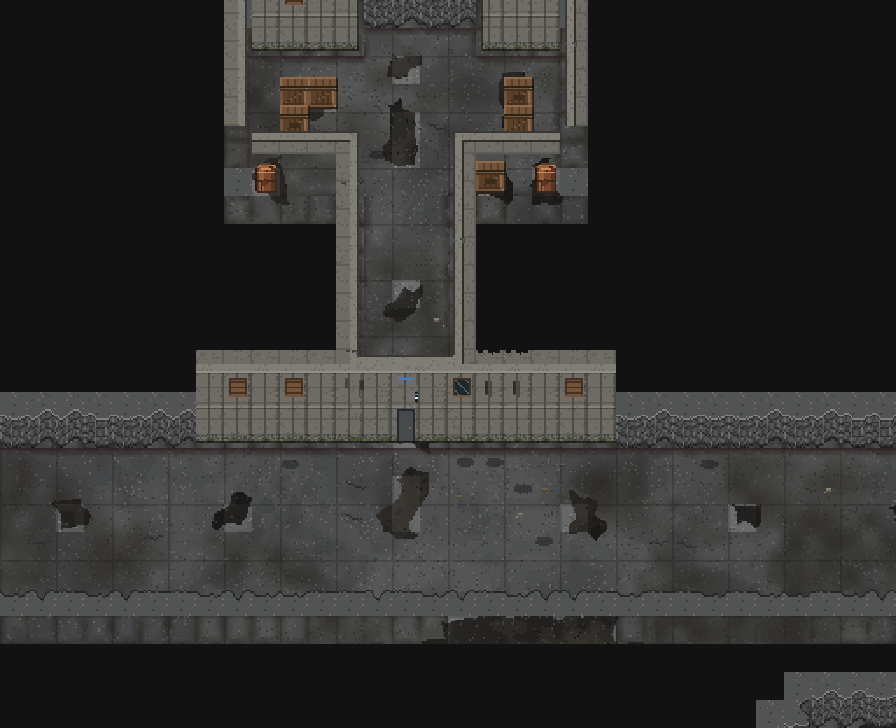
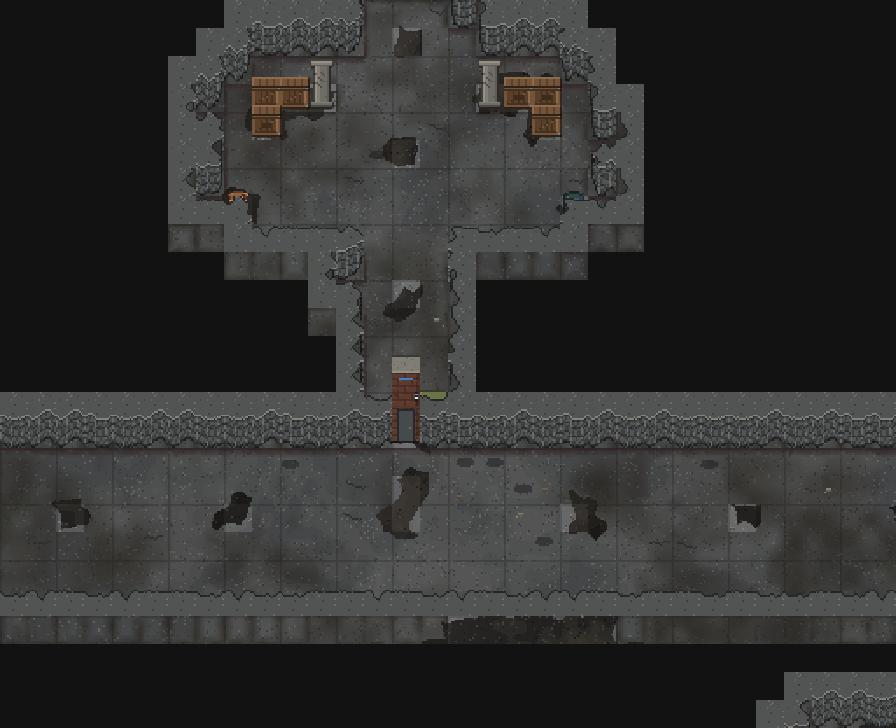
Annex: carved into rock (cliff walls, ragged rooms), rock-cut service tunnel + loading chamber, no wall windows underground, facing rule in Furnish
Claude-Session: https://claude.ai/code/session_01Jpd5tdDJTR7BVueAYV1KDM

Changed region(s): [[0.1875, 0.0, 0.7188, 0.6346]]

diff --git a/Assets/Scripts/GameCore/TierDungeons.AnnexPlan.cs b/Assets/Scripts/GameCore/TierDungeons.AnnexPlan.cs
@@ -23,48 +23,49 @@ namespace GameCore
             "################################################################",
             "################################################################",
             "################################################################",
-            "############################,,,,,,#########,,,,,,,,,,,,,,,######",
+            "############################,,,#,,#########,,,,,,,,,,,,,,,######",
             "########################,x,#,,,,,,#,t,#####,,,,,,,,,,,,,,,######",
-            "########################,,,D,,,,,,D,,,#####,,,,,,,,,,,,,,,######",
+            "########################,,,!,,,,,,!,,,#####,,,,,,,,,,,,,,,######",
             "########################,,,#,,i,,,#,,,#####,,,,,,,i,,,,,,,######",
             "############################,,,,,,#########,,,,,,,,,,,,,,,######",
             "########################,,,#,,,,,,#########,,,,,,,,,,,,,,,######",
-            "########################,,,D,,C,,,!,,,,,,,!,,,,i,,T,,i,,,,######",
-            "########################,,,#,,,,,,#########,,,,,,,,,,,,,,,######",
+            "########################,,,!,,C,,,!,,,,,,,!,,,,i,,T,,i,,,,######",
+            "########################,,,#,,,,,,#########,,,+,,,,,,,+,,,######",
             "############################,,,,,,#########,,,,,,,,,,q,,,,######",
             "########################t,,#,,i,,,#,,,#####,,,,,,,,,,,,,,,######",
-            "########################,,,D,,,,,,D,,,#####,,,,q,,,,,,,,,,######",
+            "########################,,,!,,,,,,!,,,#####,,,,q,,,,,,,,,,######",
             "########################,,,#,,,,,,#,,x#####,,,,,,,,,,,,,,,######",
-            "############################,,,,,,#########,,,,,,,,,,,,,,,######",
-            "##############################D#################################",
+            "############################,,,,,,#########,,,,,,,,#,#,#,,######",
+            "##############################!#################################",
             "#######################,,,,,,,,,,,,,,,,#########################",
             "#######################,,,,,,,,I,,,,,,,#########################",
             "####,,,,,,,,,,,########,,,i,,,,,,,,i,,,###,,,,,,,,,,,,#,,,,,,,##",
-            "####cc,,,,,,,,b########,,,,,,,,,,,,,,,,###,,,,,,,,,,,,#,,,,,,,##",
+            "####cc,,,,,,,,b########,,,,,,,,,,,,,,,####,,,,,,,,,,,,#,,,,,,,##",
             "####c,,,,,,,,,,########,,,,,,,,,,,,,,,,###,,,,,i,,,,,,#,,,,,,,##",
-            "####,,,,,i,,,,,#,,,D,,,,,,,,,,,,,,,,,,,###,,,,,,,,,,,,#,,,,,,,##",
-            "####,,E,,,,,,,,!,i,D,i,,,,,,,,,,,,,,,,,!,D,,,,,,O,,,,,{,,,V,,,##",
-            "####,,,,,,,,,,,#,,,D,,,,,,,,,,,,,,,,,,,###,,,,,,,,,,,,#,,,,,,,##",
+            "####,,,,,i,,,,,#,,,#,,,,,,,,,,,,,,,,,,,###,,,,,,,,,,,,#,,,,,,,##",
+            "####,,E,,,,,,,,!,i,!,i,,,,,,,,,,,,,,,,,!,!,,,,,,O,,,,,{,,,V,,,##",
+            "####,,,,,,,,,,,#,,,#,,,,,,,,,,,,,,,,,,,###,,,,,,,,,,,,#,,,,,,,##",
             "####,,,,,i,,,,,########,,,,,,,,,,x,,,,,###,,,,,i,,,,,,#,,,i,,,##",
             "####c,,,,,,,,,b########,,,,,,,,,,,,,,,,###,,,,,,,,,,,,#,,,,,,,##",
             "####cc,,,,,,,cc########,,,i,,x,,,,,i,,,###,,,,,,,,,cc,#,,,,,,,##",
             "#######################,,,,,,,,,,,,,,,,#########################",
-            "#######################,,,,,,,,,,,,,,,,#########################",
+            "#######################,,,,,,,,,#,,,,,,#########################",
             "################################################################",
         };
 
         /// <summary>Furniture and lab stock along the walls (the plan alphabet has no letters left): x, y, hard cover?, look.</summary>
         static readonly (int, int, bool, string)[] AnnexStock =
         {
-            (14, 32, false, "terminal"),
+            (12, 30, false, "terminal"),
             (9, 30, true, "cabinet"),
             (25, 28, false, "terminal"),
             (26, 28, false, "desk"),
             (33, 28, false, "desk"),
             (34, 28, false, "terminal"),
-            (38, 31, false, "armchair"),
-            (38, 32, false, "armchair"),
-            (38, 33, false, "armchair"),
+            (28, 28, false, "armchair"),
+            (29, 28, false, "armchair"),
+            (36, 28, false, "armchair"),
+            (37, 28, false, "armchair"),
             (23, 29, true, "lockers"),
             (23, 30, true, "lockers"),
             (23, 31, true, "lockers"),
@@ -77,24 +78,25 @@ namespace GameCore
             (38, 39, true, "cabinet"),
             (24, 19, true, "lockers"),
             (37, 23, true, "lockers"),
-            (45, 14, true, "console"),
+            (44, 14, true, "fridge_lab"),
+            (45, 14, true, "fridge_lab"),
             (47, 14, true, "console"),
+            (48, 14, true, "console"),
             (49, 14, true, "console"),
-            (51, 14, true, "console"),
-            (53, 14, true, "console"),
-            (55, 14, true, "console"),
-            (43, 17, false, "terminal"),
-            (43, 21, false, "terminal"),
-            (43, 15, false, "microscope"),
+            (51, 14, true, "machine"),
+            (52, 14, true, "machine"),
+            (53, 14, true, "machine"),
+            (55, 14, false, "terminal"),
+            (56, 14, false, "terminal"),
+            (43, 16, false, "microscope"),
             (43, 19, false, "microscope"),
-            (43, 23, false, "microscope"),
+            (43, 22, false, "microscope"),
             (43, 25, true, "centrifuge"),
-            (57, 15, true, "machine"),
-            (57, 17, true, "machine"),
-            (57, 19, true, "machine"),
-            (57, 21, true, "fridge_lab"),
-            (57, 23, true, "fridge_lab"),
-            (57, 25, true, "fridge_lab"),
+            (57, 16, true, "cabinet"),
+            (57, 17, true, "cabinet"),
+            (57, 18, true, "cabinet"),
+            (57, 22, true, "cabinet"),
+            (57, 23, true, "cabinet"),
             (47, 30, false, "desk"),
             (48, 30, false, "terminal"),
             (49, 30, false, "desk"),
@@ -108,11 +110,12 @@ namespace GameCore
             (56, 30, true, "lockers"),
             (57, 30, true, "lockers"),
             (58, 30, true, "lockers"),
-            (59, 30, true, "lockers"),
-            (61, 31, true, "cabinet"),
+            (60, 30, true, "fridge_lab"),
+            (61, 30, true, "fridge_lab"),
             (61, 32, true, "cabinet"),
-            (61, 36, true, "fridge_lab"),
-            (61, 37, true, "fridge_lab"),
+            (61, 33, true, "cabinet"),
+            (61, 36, true, "cabinet"),
+            (61, 37, true, "cabinet"),
             (55, 31, true, "cabinet"),
             (55, 32, true, "cabinet"),
             (55, 36, true, "cabinet"),
@@ -123,7 +126,7 @@ namespace GameCore
         public static MapLayout LoadingAnnex()
         {
             var marks = new Dictionary<char, (string, string)> { ['E'] = ("Freight Lift", "taken_tunnels"), ['I'] = ("Intake Desk", null), ['C'] = ("Cell Block", null), ['O'] = ("Handler's Office", null), ['T'] = ("Control Room", null), ['V'] = ("Vault", null) };
-            var m = FloorPlan("loading_annex", AnnexPlan, "concrete", LabTile, marks, null);
+            var m = FloorPlan("loading_annex", AnnexPlan, "cliff", LabTile, marks, null);
             if (m.Looks == null) { m.Looks = new string[m.Tiles.Length][]; for (int y = 0; y < m.Tiles.Length; y++) m.Looks[y] = new string[m.Tiles[0].Length]; }
             foreach (var (x, y, hard, look) in AnnexStock) { if (m.Tiles[y][x] != "Empty" || m.Looks[y][x] != null) continue; m.Tiles[y][x] = hard ? "HardCover" : "ScatterCover"; m.Looks[y][x] = look; }
             return m;

diff --git a/ArtSource/plans/loading_annex.py b/ArtSource/plans/loading_annex.py
@@ -19,22 +19,22 @@ def ov(x, y, kind, look): overlay.append((x, y, kind, look))
 room(4, 30, 14, 38); put(6, 34, 'E'); put(15, 34, '!')
 for (x, y) in ((4, 31), (5, 31), (4, 32), (4, 37), (4, 38), (5, 38), (13, 38), (14, 38)): put(x, y, 'c')
 put(14, 31, 'b'); put(14, 37, 'b')
-ov(14, 32, 'S', 'terminal'); ov(9, 30, 'H', 'cabinet')
+ov(12, 30, 'S', 'terminal'); ov(9, 30, 'H', 'cabinet')
 put(9, 33, 'i'); put(9, 36, 'i')
-room(16, 33, 22, 35); put(19, 33, 'D'); put(19, 34, 'D'); put(19, 35, 'D'); put(17, 34, 'i'); put(21, 34, 'i')
+room(16, 33, 22, 35); put(19, 33, '#'); put(19, 35, '#'); put(19, 34, '!'); put(17, 34, 'i'); put(21, 34, 'i')
 # 2 the intake hall
 room(23, 28, 38, 40); put(31, 29, 'I')
 ov(25, 28, 'S', 'terminal'); ov(26, 28, 'S', 'desk'); ov(33, 28, 'S', 'desk'); ov(34, 28, 'S', 'terminal')
-for y in (31, 32, 33): ov(38, y, 'S', 'armchair')
+for x in (28, 29, 36, 37): ov(x, 28, 'S', 'armchair')
 for y in (29, 30, 31, 37, 38, 39): ov(23, y, 'H', 'lockers')                      # (nothing stands against a SOUTH wall: its tall face hides it)
 for y in (36, 37, 38, 39): ov(38, y, 'H', 'cabinet')
 put(29, 38, 'x'); put(33, 36, 'x'); put(26, 30, 'i'); put(35, 30, 'i'); put(26, 38, 'i'); put(35, 38, 'i')
-put(30, 27, 'D'); put(39, 34, '!')
+put(30, 27, '!'); put(39, 34, '!')
 # 3 the cell block
 room(28, 14, 33, 26); put(30, 20, 'C')
 for ys in (15, 19, 23):
-    room(24, ys, 26, ys + 2); put(27, ys + 1, 'D')
-    if ys != 19: room(35, ys, 37, ys + 2); put(34, ys + 1, 'D')
+    room(24, ys, 26, ys + 2); put(27, ys + 1, '!')
+    if ys != 19: room(35, ys, 37, ys + 2); put(34, ys + 1, '!')
 for y in (17, 23): put(30, y, 'i')
 put(25, 15, 'x'); put(24, 23, 't'); put(36, 15, 't'); put(37, 25, 'x')
 ov(24, 19, 'H', 'lockers'); ov(37, 23, 'H', 'lockers')
@@ -43,27 +43,49 @@ put(34, 20, '!')
 room(35, 20, 41, 20); put(42, 20, '!')
 # 4 the control room and lab bay
 room(43, 14, 57, 26); put(50, 20, 'T')
-for x in (45, 47, 49, 51, 53, 55): ov(x, 14, 'H', 'console')
-for y in (17, 21): ov(43, y, 'S', 'terminal')
-for y in (15, 19, 23): ov(43, y, 'S', 'microscope')
+for x in (44, 45): ov(x, 14, 'H', 'fridge_lab')
+for x in (47, 48, 49): ov(x, 14, 'H', 'console')
+for x in (51, 52, 53): ov(x, 14, 'H', 'machine')
+for x in (55, 56): ov(x, 14, 'S', 'terminal')
+for y in (16, 19, 22): ov(43, y, 'S', 'microscope')
 ov(43, 25, 'H', 'centrifuge')
-for y in (15, 17, 19): ov(57, y, 'H', 'machine')
-for y in (21, 23, 25): ov(57, y, 'H', 'fridge_lab')
+for y in (16, 17, 18, 22, 23): ov(57, y, 'H', 'cabinet')
 for (x, y) in ((47, 24), (53, 22)): put(x, y, 'q')
-put(47, 20, 'i'); put(53, 20, 'i'); put(50, 17, 'i')
+put(47, 20, 'i'); put(53, 20, 'i'); put(50, 17, 'i'); put(46, 21, '+'); put(54, 21, '+')
 # 5 the Handler's office and the vault
-room(42, 30, 53, 38); put(41, 34, 'D'); room(40, 34, 40, 34); put(48, 34, 'O')
+room(42, 30, 53, 38); put(41, 34, '!'); room(40, 34, 40, 34); put(48, 34, 'O')
 ov(47, 30, 'S', 'desk'); ov(48, 30, 'S', 'terminal'); ov(49, 30, 'S', 'desk')
 for y in (31, 32, 33): ov(53, y, 'H', 'cabinet')
 for y in (31, 32, 36, 37): ov(42, y, 'H', 'lockers')
 put(52, 38, 'c'); put(51, 38, 'c'); put(47, 36, 'i'); put(47, 32, 'i')
 put(54, 34, '{')
 room(55, 30, 61, 38); put(58, 34, 'V')
-for x in (56, 57, 58, 59): ov(x, 30, 'H', 'lockers')
-ov(61, 31, 'H', 'cabinet'); ov(61, 32, 'H', 'cabinet'); ov(61, 36, 'H', 'fridge_lab'); ov(61, 37, 'H', 'fridge_lab')
+for x in (56, 57, 58): ov(x, 30, 'H', 'lockers')
+for x in (60, 61): ov(x, 30, 'H', 'fridge_lab')
+ov(61, 32, 'H', 'cabinet'); ov(61, 33, 'H', 'cabinet'); ov(61, 36, 'H', 'cabinet'); ov(61, 37, 'H', 'cabinet')
 for y in (31, 32, 36, 37): ov(55, y, 'H', 'cabinet')
 put(58, 36, 'i')
 put(40, 34, ',')
+# CARVED, not built (Yan, 2026-11-19: "it's a lab inside a cave, not a whole building, it was carved into the cave walls"): the walls are rock (wallLook "cliff" in LoadingAnnex), the rooms are hand-cut: rough bites out of the edges and rock left standing in the
+# corners; the floor is a poured concrete slab. Nothing is touched that carries furniture, a door, a landmark or a light, and no floor tile is cut off.
+import random
+rr = random.Random(2611)
+protect = {(x, y) for (x, y, k, l) in overlay}
+for y in range(H):
+    for x in range(W):
+        if g[y][x] != ',': protect.add((x, y)) if False else None
+def keep(x, y):
+    for dy in range(-2, 3):
+        for dx in range(-2, 3):
+            xx, yy = x + dx, y + dy
+            if (xx, yy) in protect: return True
+            if 0 <= xx < W and 0 <= yy < H and g[yy][xx] not in ',#': return True        # doors, marks, props, lights, debris
+    return False
+cand = [(x, y) for y in range(1, H - 1) for x in range(1, W - 1) if g[y][x] == ',' and sum(g[y + dy][x + dx] == '#' for dx, dy in ((1, 0), (-1, 0), (0, 1), (0, -1))) == 1 and not keep(x, y)]
+rr.shuffle(cand)
+for (x, y) in cand[:70]:
+    nb = sum(g[y + dy][x + dx] == ',' for dx, dy in ((1, 0), (-1, 0), (0, 1), (0, -1)))
+    if nb == 3: g[y][x] = '#'
 rows = [''.join(r) for r in g]
 out = os.path.join(os.path.dirname(os.path.abspath(__file__)), '..', '..', 'Assets', 'Scripts', 'GameCore', 'TierDungeons.AnnexPlan.cs')
 with open(out, 'w') as f:
@@ -78,7 +100,7 @@ with open(out, 'w') as f:
         public static MapLayout LoadingAnnex()
         {
             var marks = new Dictionary<char, (string, string)> { ['E'] = ("Freight Lift", "taken_tunnels"), ['I'] = ("Intake Desk", null), ['C'] = ("Cell Block", null), ['O'] = ("Handler's Office", null), ['T'] = ("Control Room", null), ['V'] = ("Vault", null) };
-            var m = FloorPlan("loading_annex", AnnexPlan, "concrete", LabTile, marks, null);
+            var m = FloorPlan("loading_annex", AnnexPlan, "cliff", LabTile, marks, null);
             if (m.Looks == null) { m.Looks = new string[m.Tiles.Length][]; for (int y = 0; y < m.Tiles.Length; y++) m.Looks[y] = new string[m.Tiles[0].Length]; }
             foreach (var (x, y, hard, look) in AnnexStock) { if (m.Tiles[y][x] != "Empty" || m.Looks[y][x] != null) continue; m.Tiles[y][x] = hard ? "HardCover" : "ScatterCover"; m.Looks[y][x] = look; }
             return m;

diff --git a/Assets/Scripts/GameCore/TierDungeons.TakenPlan.cs b/Assets/Scripts/GameCore/TierDungeons.TakenPlan.cs
@@ -10,16 +10,16 @@ namespace GameCore
         public static readonly string[] TakenPlan =
         {
             "######################################################################################################################################################",
-            "######################################################################################################################################################",
-            "###################################,,,,,L,,,,,########################################################################################################",
-            "###################################,cc,,,,,,c,########################################################################################################",
-            "###################################,c,,,i,,,c,########################################################################################################",
-            "###################################,,,,,M,,,,,########################################################################################################",
-            "###################################b,,,,,,,c,b########################################################################################################",
+            "#######################################,L,############################################################################################################",
+            "###################################,,,,,,,,,,,########################################################################################################",
+            "##################################,cc+,,,,,+cc,#######################################################################################################",
+            "#################################,,c,,,,,,,,,c,#######################################################################################################",
+            "##################################,,,,,,M,,,,,,,######################################################################################################",
+            "##################################,,,,,,,,,,,,,#######################################################################################################",
+            "#################################,b,,,,,,,,,,,b,######################################################################################################",
+            "###################################,,,,,,,,,,,########################################################################################################",
             "#######################################,,,############################################################################################################",
-            "#######################################,,,############################################################################################################",
-            "#######################################,,,############################################################################################################",
-            "#######################################,i,############################################################################################################",
+            "######################################,,i,############################################################################################################",
             "#######################################,,,############################################################################################################",
             "#######################################,,,##############################################################################...###########################",
             "#######################################,,,############################################################################......##########################",
@@ -88,8 +88,6 @@ namespace GameCore
             var marks = new Dictionary<char, (string, string)> { ['E'] = ("Hatch Ladder", "industrial_basin"), ['F'] = ("Lab Door", null), ['B'] = ("Broken Wall", null), ['H'] = ("Nest", null), ['A'] = ("Gaunt Arena", null), ['J'] = ("Arena North Mouth", null), ['K'] = ("Arena South Mouth", null), ['X'] = ("Gaunt Dais", null), ['M'] = ("Loading Bay", null), ['L'] = ("Freight Lift", "loading_annex") };
             var m = FloorPlan("taken_tunnels", TakenPlan, "cliff", CaveFloor, marks, null);
             for (int i = 0; i + 2 < TakenTrail.Length; i += 3) if (m.Looks != null && TakenTrail[i + 1] < m.Looks.Length && m.Looks[TakenTrail[i + 1]][TakenTrail[i]] == null) m.Looks[TakenTrail[i + 1]][TakenTrail[i]] = TakenTrail[i + 2] == 2 ? "blood" : "bloodtrail";
-            if (m.Looks != null && m.Tiles != null)                                         // behind the lab door: concrete walls, not cave rock (only the walls that touch the corridor and the loading zone; the rock behind stays rock)
-                for (int yy = 1; yy <= 15; yy++) for (int xx = 33; xx <= 47; xx++) if (m.Tiles[yy][xx] == "Solid" && (m.Tiles[yy - 1][xx] != "Solid" || m.Tiles[yy + 1][xx] != "Solid" || m.Tiles[yy][xx - 1] != "Solid" || m.Tiles[yy][xx + 1] != "Solid")) m.Looks[yy][xx] = "concrete";
             return m;
         }
     }

diff --git a/Assets/Scripts/GameCore/Furnish.cs b/Assets/Scripts/GameCore/Furnish.cs
@@ -11,7 +11,8 @@ namespace GameCore
 {
     public static class Furnish
     {
-        static readonly HashSet<string> WallBound = new HashSet<string> { "desk", "desk_n", "desk_s", "desk_e", "desk_w", "lockers", "cabinet", "armchair", "terminal", "fridge_lab", "console" };
+        static readonly HashSet<string> WallBound = new HashSet<string> { "desk", "desk_n", "desk_s", "desk_e", "desk_w", "lockers", "cabinet", "armchair", "terminal", "fridge_lab", "console", "machine" };
+        static readonly HashSet<string> SideViews = new HashSet<string> { "desk", "desk_n", "desk_s", "desk_e", "desk_w", "lockers", "cabinet" };   // pieces that have a side sprite (WorldArt.SideFacing): the others only stand against a NORTH wall, front to the room (2026-11-19, Yan: chairs and vending machines against the east wall facing south)
         static readonly HashSet<string> WallLooks = new HashSet<string> { "wall", "plaster", "concrete", "plank", "metal", "hull", "window", "metaldoor", "cliff", "pillar" };
 
         static float H(int x, int y, int zone, int k) { unchecked { int h = x * 73856093 ^ y * 19349663 ^ zone * 83492791 ^ k * 2654435; h ^= h >> 13; h *= 1274126177; h ^= h >> 16; return (h & 0xffff) / 65536f; } }
@@ -37,8 +38,7 @@ namespace GameCore
             var keep = new HashSet<(int, int)>(); if (m.Anchors != null) foreach (var a in m.Anchors.Values) for (int dy = -1; dy <= 1; dy++) for (int dx = -1; dx <= 1; dx++) keep.Add((a.x + dx, a.y + dy));
             bool Wall(int x, int y) => x >= 0 && y >= 0 && x < w && y < h && m.Tiles[y][x] == "Solid" && (m.Looks[y][x] == null || WallLooks.Contains(m.Looks[y][x]));
             bool Door(int x, int y) => x >= 0 && y >= 0 && x < w && y < h && (m.Tiles[y][x] == "Door" || m.Tiles[y][x] == "DoorOpen");
-            bool Touches(int x, int y) => Wall(x - 1, y) || Wall(x + 1, y) || Wall(x, y - 1) || Wall(x, y + 1);
-            bool TouchesSide(int x, int y) => Wall(x - 1, y) || Wall(x + 1, y) || Wall(x, y - 1);   // a spot against a wall that is not only a south wall (its tall face would hide the piece)
+                        bool OkFor(int x, int y, string look) => SideViews.Contains(look) ? Wall(x - 1, y) || Wall(x + 1, y) || Wall(x, y - 1) : Wall(x, y - 1);   // a spot against a wall the piece can face away from (never only a south wall: its tall face would hide the piece)
             bool NearDoor(int x, int y) { for (int dy = -1; dy <= 1; dy++) for (int dx = -1; dx <= 1; dx++) if (Door(x + dx, y + dy)) return true; return false; }
             bool Free(int x, int y) => x > 0 && y > 0 && x < w - 1 && y < h - 1 && m.Tiles[y][x] == "Empty" && m.Looks[y][x] == null;
             bool Corridor(int x, int y) => Wall(x - 1, y) && Wall(x + 1, y) || Wall(x, y - 1) && Wall(x, y + 1);
@@ -47,11 +47,11 @@ namespace GameCore
             for (int y = 1; y < h - 1; y++) for (int x = 1; x < w - 1; x++) if (Cover(x, y) && m.Looks[y][x] != null && WallBound.Contains(m.Looks[y][x])) order.Add((x, y));
             foreach (var (x, y) in order)
             {
-                if (Touches(x, y) || keep.Contains((x, y))) continue;
+                if (OkFor(x, y, m.Looks[y][x]) || keep.Contains((x, y))) continue;
                 (int x, int y) best = (-1, -1); int bd = int.MaxValue;
                 for (int dy = -9; dy <= 9; dy++) for (int dx = -9; dx <= 9; dx++)
                 {
-                    int nx = x + dx, ny = y + dy, d = dx * dx + dy * dy; if (d >= bd || !Free(nx, ny) || !TouchesSide(nx, ny) || NearDoor(nx, ny) || keep.Contains((nx, ny)) || Corridor(nx, ny) || Open(nx, ny) < 5) continue;
+                    int nx = x + dx, ny = y + dy, d = dx * dx + dy * dy; if (d >= bd || !Free(nx, ny) || !OkFor(nx, ny, m.Looks[y][x]) || NearDoor(nx, ny) || keep.Contains((nx, ny)) || Corridor(nx, ny) || Open(nx, ny) < 5) continue;
                     if (m.Grounds != null && m.Grounds[ny][nx] != m.Grounds[y][x]) continue;                      // the same kind of floor (a desk does not go from the lab into the mud)
                     bool crowd = false; for (int ey = -1; ey <= 1 && !crowd; ey++) for (int ex = -1; ex <= 1; ex++) if ((ex != 0 || ey != 0) && Cover(nx + ex, ny + ey) && m.Looks[ny + ey][nx + ex] != m.Looks[y][x]) { crowd = true; break; }   // (a bank of lockers or cabinets side by side is fine)
                     if (crowd) continue;

diff --git a/ArtSource/plans/taken_tunnels.py b/ArtSource/plans/taken_tunnels.py
@@ -152,14 +152,21 @@ def build(seed):
     g = [['#'] * W2 for _ in range(SHIFT)] + g
     def put3(x, y, c):
         if 1 <= x < W2 - 1 and 1 <= y < len(g) - 1: g[y][x] = c
-    for y in range(7, 15):                                                     # the corridor north from the door (the door is at (40, 15) now): 3 wide, 8 long
+    # CARVED, not built (Yan, 2026-11-19: "it's a lab inside a cave, not a whole building, it was carved into the cave walls"): rock walls (the plan's own wall look), a concrete slab floor, a steel door set in the rock.
+    for y in range(7, 15):                                                     # the service tunnel north from the door (the door is at (40, 15) now): 3 wide, with a few rough bites out of its walls
         for x in range(39, 42): put3(x, y, ',')
-    for y in range(2, 7):                                                      # a compact loading zone: 11 x 5, a lift platform at the far end
-        for x in range(35, 46): put3(x, y, ',')
-    for (x, y) in ((36, 3), (37, 3), (36, 4), (44, 3), (44, 4), (43, 6)): put3(x, y, 'c')   # crates along the walls
-    for (x, y) in ((35, 6), (45, 6)): put3(x, y, 'b')                          # barrels
-    for (x, y) in ((40, 10), (40, 4)): put3(x, y, 'i')
-    put3(40, 2, 'L'); put3(40, 5, 'M')
+    for y in (8, 10, 12):
+        put3(38 if r2.random() < 0.5 else 42, y, ',') if r2.random() < 0.7 else None
+    for y in range(2, 9):                                                      # the loading chamber: a hand-cut room, 15 x 7 with ragged corners, a lift niche in its north wall
+        for x in range(33, 48): put3(x, y, ',')
+    for (x, y) in ((33, 2), (34, 2), (33, 3), (47, 2), (46, 2), (47, 3), (33, 8), (47, 8), (34, 8), (46, 8)): put3(x, y, '#')   # corners left as rock
+    for (x, y) in ((33, 5), (47, 4), (47, 6), (33, 6)): put3(x, y, '#') if r2.random() < 0.5 else None
+    for (x, y) in ((39, 1), (40, 1), (41, 1)): put3(x, y, ',')                  # the lift niche
+    for (x, y) in ((35, 3), (36, 3), (35, 4), (45, 3), (45, 4), (44, 3)): put3(x, y, 'c')   # crates against the walls (the north wall and the corners)
+    for (x, y) in ((34, 7), (46, 7)): put3(x, y, 'b')                          # barrels
+    put3(37, 3, '+'); put3(43, 3, '+')                                         # rock-bolted timber props holding the roof
+    for (x, y) in ((40, 10), (40, 5)): put3(x, y, 'i')
+    put3(40, 1, 'L'); put3(40, 5, 'M')
     rows = [''.join(r_) for r_ in g]
     trail = [(x, y + SHIFT, k) for (x, y, k) in trail]
     build.trail = trail
@@ -182,8 +189,6 @@ if __name__ == '__main__':
             var marks = new Dictionary<char, (string, string)> { ['E'] = ("Hatch Ladder", "industrial_basin"), ['F'] = ("Lab Door", null), ['B'] = ("Broken Wall", null), ['H'] = ("Nest", null), ['A'] = ("Gaunt Arena", null), ['J'] = ("Arena North Mouth", null), ['K'] = ("Arena South Mouth", null), ['X'] = ("Gaunt Dais", null), ['M'] = ("Loading Bay", null), ['L'] = ("Freight Lift", "loading_annex") };
             var m = FloorPlan("taken_tunnels", TakenPlan, "cliff", CaveFloor, marks, null);
             for (int i = 0; i + 2 < TakenTrail.Length; i += 3) if (m.Looks != null && TakenTrail[i + 1] < m.Looks.Length && m.Looks[TakenTrail[i + 1]][TakenTrail[i]] == null) m.Looks[TakenTrail[i + 1]][TakenTrail[i]] = TakenTrail[i + 2] == 2 ? "blood" : "bloodtrail";
-            if (m.Looks != null && m.Tiles != null)                                         // behind the lab door: concrete walls, not cave rock (only the walls that touch the corridor and the loading zone; the rock behind stays rock)
-                for (int yy = 1; yy <= 15; yy++) for (int xx = 33; xx <= 47; xx++) if (m.Tiles[yy][xx] == "Solid" && (m.Tiles[yy - 1][xx] != "Solid" || m.Tiles[yy + 1][xx] != "Solid" || m.Tiles[yy][xx - 1] != "Solid" || m.Tiles[yy][xx + 1] != "Solid")) m.Looks[yy][xx] = "concrete";
             return m;
         }
     }

diff --git a/Assets/Scripts/GameCore/WorldArt.cs b/Assets/Scripts/GameCore/WorldArt.cs
@@ -402,7 +402,7 @@ namespace GameCore
                 if (l == "window" || l == "metaldoor") s = Get($"w_{HostMaterial(x, y)}_{WallKey(x, y)}_{l}");   // metaldoor on a Solid: a sealed blast door
                 else if (Mass.Contains(l)) s = Get($"w_{l}_{MassMask(x, y)}_{(int)(H01(x, y, 9) * 3) % 3}");
                 else s = (Ruined(x, y, l) ? Get($"w_{l}_{WallKey(x, y)}_ruin") : null)
-                         ?? (t.Damage == 0 && x % 2 == 0 && H01(x, y, 44) < 0.75f ? Get($"w_{l}_{WallKey(x, y)}_uwin") : null)   // Batch 119: upper windows in a rhythm
+                         ?? (!_interior && t.Damage == 0 && x % 2 == 0 && H01(x, y, 44) < 0.75f ? Get($"w_{l}_{WallKey(x, y)}_uwin") : null)   // Batch 119: upper windows in a rhythm
                          ?? (t.Damage == 0 && H01(x, y, 43) < 0.4f ? Get($"w_{l}_{WallKey(x, y)}_worn") : null)   // Batch 98: weathered
                          ?? Get($"w_{l}_{WallKey(x, y)}_{(t.Damage > 0 ? "crack" : "0")}") ?? Get($"w_{l}_{WallKey(x, y)}_0");
                 wall = true;

diff --git a/ArtSource/WORK_LOG.md b/ArtSource/WORK_LOG.md
@@ -6695,3 +6695,10 @@ Yan: "The concrete Watch Towers do not look good, they dont match the rest of th
 - Arena: the ten pillars are clumps of boulders ('k', the existing HardCover rock) round the centre, plus scattered ones. Behind the lab door: a plain 3-wide, 8-long corridor straight to a compact 11 x 5 loading zone (crates, barrels, the lift); the decontamination gate and the big bay are gone; only the cave-wall tiles that TOUCH the corridor became concrete (the old version turned the whole rock block into pale concrete, which read as a warehouse in the cave).
 - NEW `Furnish.cs` (the last pass of `ZoneLayoutRecipes.BuildAll`, every map): (1) lab stock on lab floor: some benches get a microscope, some desks a computer terminal, some machines a centrifuge, some lockers become cold-storage cabinets (new art `ArtSource/world/props_lab.py`: microscope, terminal, centrifuge, fridge_lab; atlas repacked); (2) wall placement: desks, lockers, cabinets, armchairs, terminals, cold storage and consoles that stand free in a room move to the nearest free tile beside a wall within 9 tiles (never a doorway, corridor, landmark/stash, or a spot that narrows a passage; never against a SOUTH wall: its tall face would hide the piece; a bank of the same piece side by side is fine); deterministic. Result: of the desk-like pieces on all maps (desks, terminals, consoles, armchairs) at most 20% still stand free (check `FurnishChecks`); stamped locker banks (Vanguard Barracks) and some hand-placed lab pieces still do (see `AIMPROBE=1` for the breakdown).
 - The Annex's own furniture was redone by hand by the same rule (everything on a north, east or west wall; a reception counter of desks and terminals; waiting seats; a control room with consoles, terminals, microscopes, machines and cold storage). Harness: ALL CHECKS PASSED. Renders in `maps/renders/annex/`; not Unity.
+
+### Batch 9c (2026-11-19): carved, not built; facing; no windows underground
+- Yan: "are you using /level-design? this architecture makes no sense", "the wooden windows? why?", "it's a lab inside a cave, not a whole building, it was carved into the cave walls ... it needs to reflect that", and about furniture: chairs on the east wall facing south, vending machines (cold storage) on the east wall with no side sprite: "put them up against the north wall facing south or we need a sprite facing the opposite of the wall".
+- I was NOT using the level-design skill for the Annex (I had drawn rooms as rectangles and let the Taken corridor's walls turn concrete); now applied: intent first (a service route cut into rock, then a lab hand-cut into it), readable thresholds (steel doors only where a door is needed), rooms keep their verbs (intake, cells, control, office, vault) but no rectangle is left whole.
+- Carved look: `loading_annex` walls are rock (`cliff`), rooms have ragged edges (about 70 rough bites out of the walls, never cutting off floor or touching furniture/doors/landmarks/lights) and rock left in the corners, timber props hold the roof, steel doors at thresholds, concrete slab floor (LabTile). The decontamination corridor is a rock passage with one steel door; no gate. Behind the Taken lab door: a rock-cut service tunnel and a hand-cut loading chamber (ragged corners, crates, barrels, rock-bolted props, a lift niche) - the concrete-wall conversion that made it a "building in a cave" is gone.
+- Windows: `WorldArt` no longer draws the "upper window" wall art in interior/underground zones (they were the wooden-shuttered windows on every concrete wall; underground there is no outside).
+- Facing: `Furnish` knows which pieces have side sprites (desks, lockers, cabinets); every other piece (armchair, terminal, cold storage, console, machine) now only stands against a NORTH wall, front to the room, and one that stood against an east/west wall is moved. The Annex's furniture was re-laid by that rule. Harness: ALL CHECKS PASSED. Renders in `maps/renders/annex/` (map renders, not Unity).
